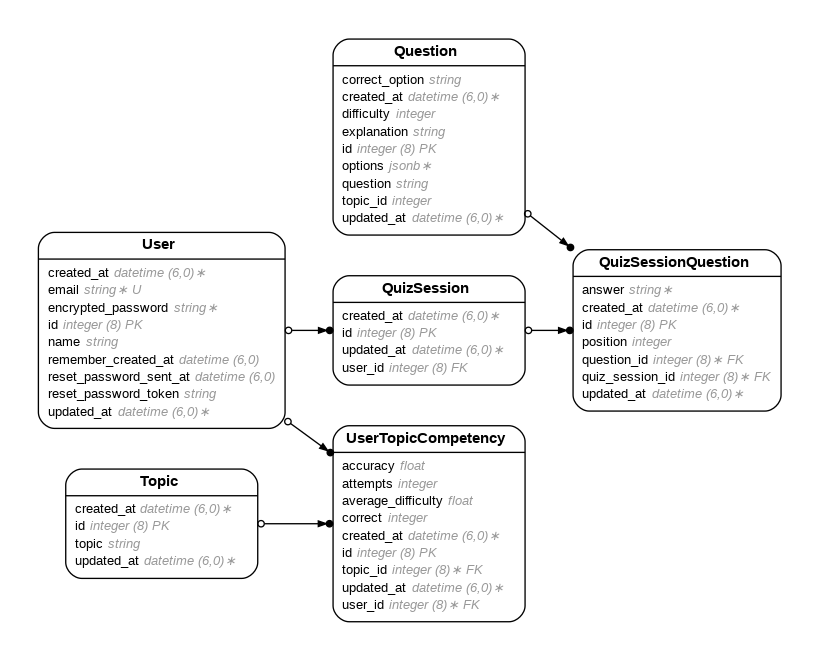
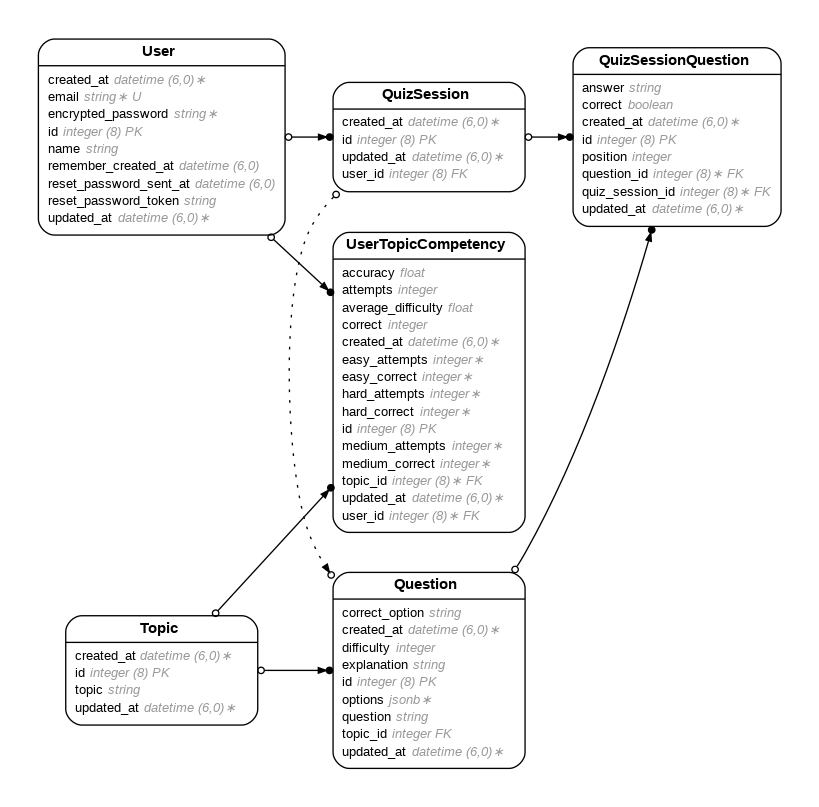
Added difficulty logic and deploy to render

diff --git a/app/controllers/quiz_sessions_controller.rb b/app/controllers/quiz_sessions_controller.rb
@@ -4,7 +4,7 @@ class QuizSessionsController < ApplicationController
   end
 
   def create
-    user = User.first # Or current_user if using authentication
+    user = current_user || User.first # Or current_user if using authentication
     session = QuizSession.create!(user: user)
 
     previously_answered_ids = QuizSessionQuestion
@@ -12,10 +12,20 @@ class QuizSessionsController < ApplicationController
                                 .where(quiz_sessions: { user_id: user.id })
                                 .pluck(:question_id)
 
-    questions = Question.where.not(id: previously_answered_ids)
-                        .order("RANDOM()")
-                        .limit(10)
+    questions=[]
+    Topic.all.each do |topic|
+      # Get user's average difficulty for this topic, fallback to 3
+      competency = UserTopicCompetency.find_by(user: user, topic: topic)
+      range = competency&.unlocked_difficulty_range || (1..3)
 
+      # Select up to 2 adapted questions per topic
+      topic_questions = Question.where(topic: topic, difficulty: range)
+                                .where.not(id: previously_answered_ids)
+                                .order("RANDOM()")
+                                .limit(2)
+
+      questions += topic_questions
+    end
     if questions.size < 10
       redirect_to root_path, alert: "Not enough questions to start quiz."
       return
@@ -59,15 +69,22 @@ class QuizSessionsController < ApplicationController
       puts "No answer selected!" if selected_option.blank?
       return
     end
+
     qsq = session.quiz_session_questions.find_by(position: @number)
-    qsq.update(answer: selected_option)
+    correct = selected_option == qsq.question.correct_option
+
+    qsq.update(answer: selected_option, correct: selected_option == qsq.question.correct_option)
+
     user = session.user
     topic = qsq.question.topic
     difficulty = qsq.question.difficulty.to_i
 
-    competency = UserTopicCompetency.find_or_initialize_by(user: user, topic: topic)
-    competency.update_stats!(correct: qsq.correct?, difficulty: difficulty)
-
+    UserTopicCompetency.update_difficulty_band!(
+      user: user,
+      topic: topic,
+      difficulty: qsq.question.difficulty,
+      correct: qsq.correct
+    )
     redirect_to quiz_session_question_path(session.id, number: @number, show_answer: true) and return
   end
 end

diff --git a/app/models/user_topic_competency.rb b/app/models/user_topic_competency.rb
@@ -7,6 +7,12 @@
 #  attempts           :integer
 #  average_difficulty :float
 #  correct            :integer
+#  easy_attempts      :integer          default(0), not null
+#  easy_correct       :integer          default(0), not null
+#  hard_attempts      :integer          default(0), not null
+#  hard_correct       :integer          default(0), not null
+#  medium_attempts    :integer          default(0), not null
+#  medium_correct     :integer          default(0), not null
 #  created_at         :datetime         not null
 #  updated_at         :datetime         not null
 #  topic_id           :bigint           not null
@@ -26,18 +32,43 @@ class UserTopicCompetency < ApplicationRecord
   belongs_to :user
   belongs_to :topic
 
-  def update_stats!(correct:, difficulty:)
-  self.attempts ||= 0
-  self.correct ||= 0
-  self.average_difficulty ||= 0.0
-  self.accuracy ||= 0.0
+  def easy_accuracy
+    return 0.0 if easy_attempts.zero?
+    easy_correct.to_f / easy_attempts
+  end
 
-  self.attempts += 1
-  self.correct += 1 if correct
+  def medium_accuracy
+    return 0.0 if medium_attempts.zero?
+    medium_correct.to_f / medium_attempts
+  end
 
-  self.average_difficulty = ((average_difficulty * (attempts - 1)) + difficulty) / attempts.to_f
-  self.accuracy = self.correct.to_f / self.attempts.to_f
+  def hard_accuracy
+    return 0.0 if hard_attempts.zero?
+    hard_correct.to_f / hard_attempts
+  end
 
-  save!
-end
+  def unlocked_difficulty_range
+    return 1..3 if easy_accuracy < 0.8
+    return 1..6 if medium_accuracy < 0.8
+    1..10
+  end
+  
+  def self.update_difficulty_band!(user:, topic:, difficulty:, correct:)
+    competency = find_or_initialize_by(user: user, topic: topic)
+
+    case difficulty
+    when 1..3
+      competency.easy_attempts += 1
+      competency.easy_correct += 1 if correct
+    when 4..6
+      competency.medium_attempts += 1
+      competency.medium_correct += 1 if correct
+    when 7..10
+      competency.hard_attempts += 1
+      competency.hard_correct += 1 if correct
+    end
+
+    competency.save!
+  end
+
 end

diff --git a/db/schema.rb b/db/schema.rb
@@ -10,7 +10,7 @@
 #
 # It's strongly recommended that you check this file into your version control system.
 
-ActiveRecord::Schema[7.1].define(version: 2025_05_19_203923) do
+ActiveRecord::Schema[7.1].define(version: 2025_05_25_175524) do
   # These are extensions that must be enabled in order to support this database
   enable_extension "plpgsql"
 
@@ -32,6 +32,7 @@ ActiveRecord::Schema[7.1].define(version: 2025_05_19_203923) do
     t.datetime "created_at", null: false
     t.datetime "updated_at", null: false
     t.string "answer"
+    t.boolean "correct"
     t.index ["question_id"], name: "index_quiz_session_questions_on_question_id"
     t.index ["quiz_session_id"], name: "index_quiz_session_questions_on_quiz_session_id"
   end
@@ -58,6 +59,12 @@ ActiveRecord::Schema[7.1].define(version: 2025_05_19_203923) do
     t.integer "correct"
     t.datetime "created_at", null: false
     t.datetime "updated_at", null: false
+    t.integer "easy_attempts", default: 0, null: false
+    t.integer "easy_correct", default: 0, null: false
+    t.integer "medium_attempts", default: 0, null: false
+    t.integer "medium_correct", default: 0, null: false
+    t.integer "hard_attempts", default: 0, null: false
+    t.integer "hard_correct", default: 0, null: false
     t.index ["topic_id"], name: "index_user_topic_competencies_on_topic_id"
     t.index ["user_id"], name: "index_user_topic_competencies_on_user_id"
   end

diff --git a/db/migrate/20250525175524_add_difficulty_bands_to_user_topic_competencies.rb b/db/migrate/20250525175524_add_difficulty_bands_to_user_topic_competencies.rb
@@ -1,0 +1,10 @@
+class AddDifficultyBandsToUserTopicCompetencies < ActiveRecord::Migration[7.1]
+  def change
+    add_column :user_topic_competencies, :easy_attempts, :integer, default: 0, null: false
+    add_column :user_topic_competencies, :easy_correct,  :integer, default: 0, null: false
+    add_column :user_topic_competencies, :medium_attempts, :integer, default: 0, null: false
+    add_column :user_topic_competencies, :medium_correct,  :integer, default: 0, null: false
+    add_column :user_topic_competencies, :hard_attempts, :integer, default: 0, null: false
+    add_column :user_topic_competencies, :hard_correct,  :integer, default: 0, null: false
+  end
+end

diff --git a/app/models/quiz_session_question.rb b/app/models/quiz_session_question.rb
@@ -4,6 +4,7 @@
 #
 #  id              :bigint           not null, primary key
 #  answer          :string
+#  correct         :boolean
 #  position        :integer
 #  created_at      :datetime         not null
 #  updated_at      :datetime         not null

diff --git a/db/migrate/20250519233359_add_correct_to_quiz_session_questions.rb b/db/migrate/20250519233359_add_correct_to_quiz_session_questions.rb
@@ -1,0 +1,5 @@
+class AddCorrectToQuizSessionQuestions < ActiveRecord::Migration[7.1]
+  def change
+    add_column :quiz_session_questions, :correct, :boolean
+  end
+end
